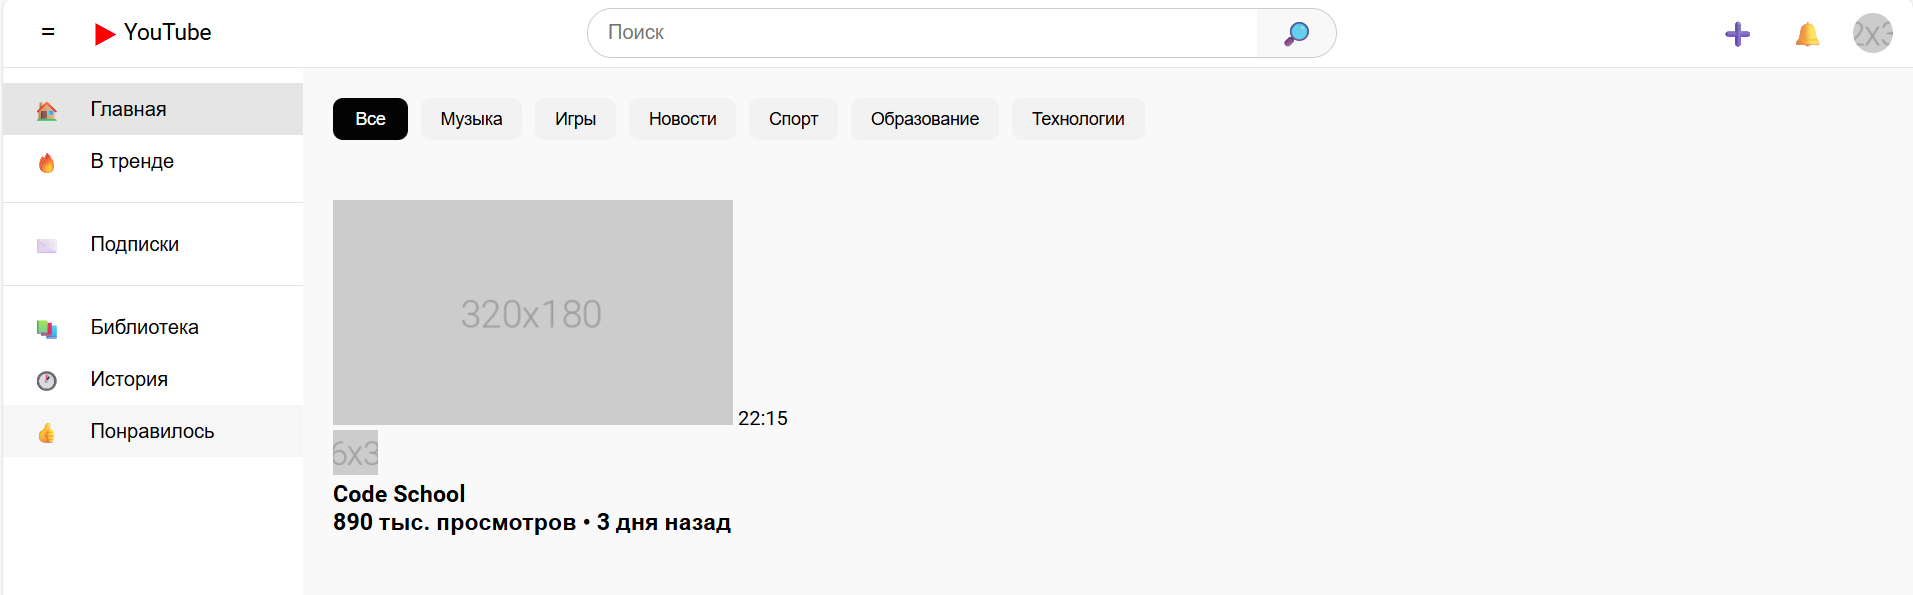
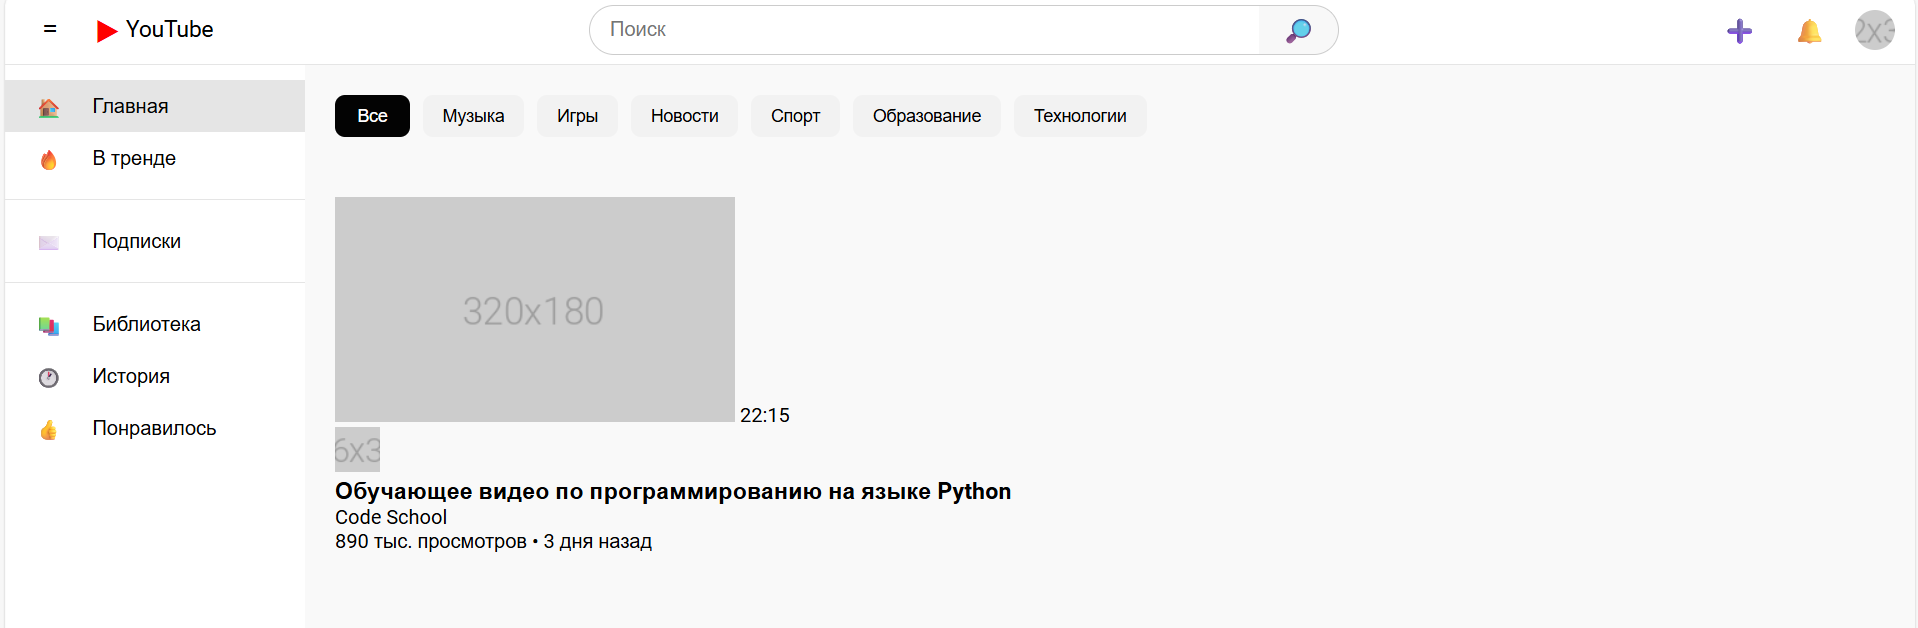
Step 10 update: Added first video card HTML

diff --git a/index.html b/index.html
@@ -83,13 +83,14 @@
             <div class="video-info">
               <img src="https://placehold.ru/36" alt="Channel" class="channel-avatar" />
               <div class="video-details">
-                <h3 class="video-title"Обучающее видео по программированию на языке Python</h3>
+                <h3 class="video-title">Обучающее видео по программированию на языке Python</h3>
                   <p class="channel-name">Code School</p>
                   <p class="video-meta">890 тыс. просмотров • 3 дня назад</p>
               </div>
             </div>
           </article>
         </div>
+
       </main>
     </div>
   </body>

diff --git a/style.css b/style.css
@@ -163,3 +163,4 @@ button:hover {
   background-color: #030303;
   color: white
 }
+
